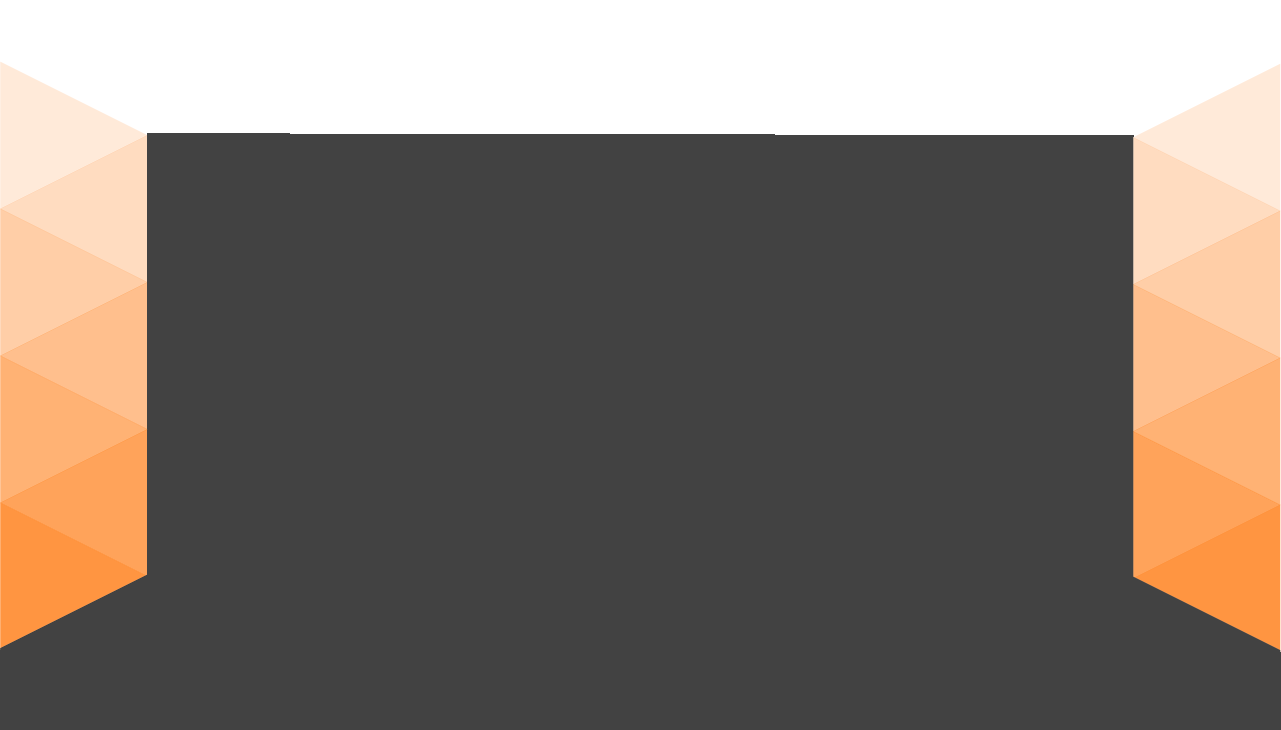
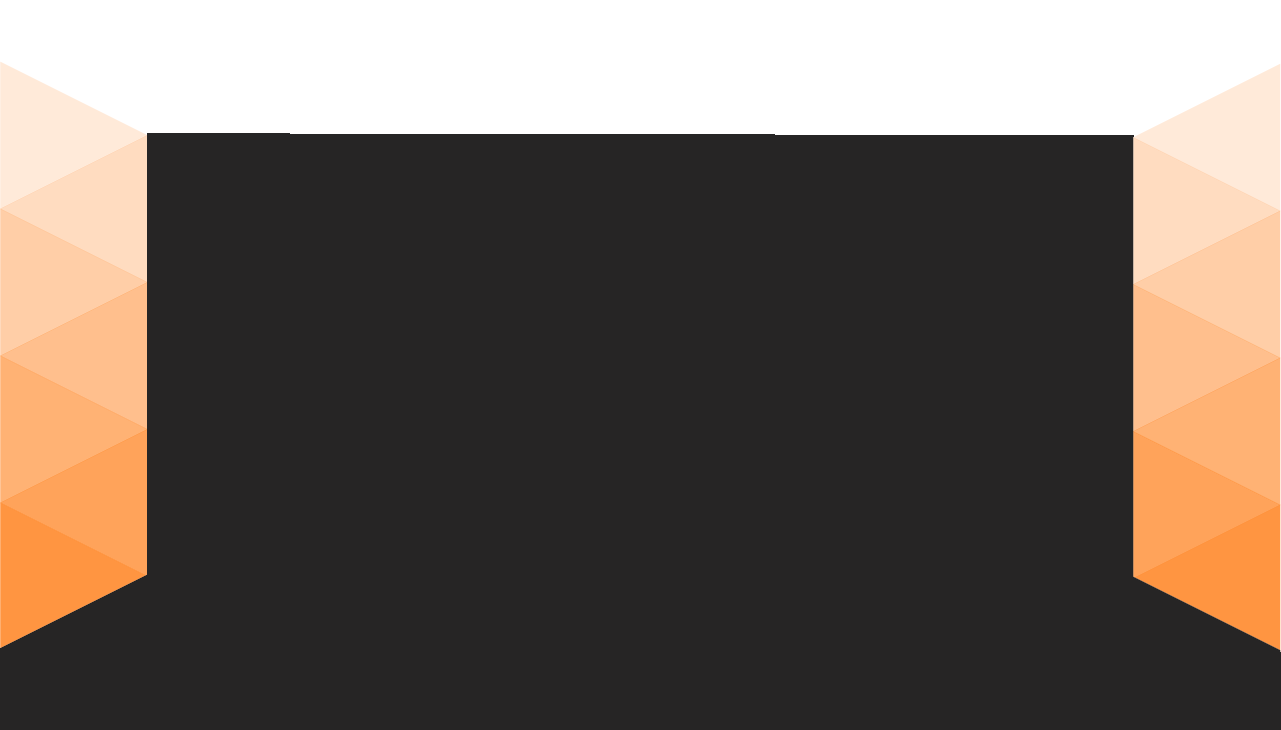
Updated webpage colors.

diff --git a/css/main.css b/css/main.css
@@ -3,7 +3,7 @@
 body 
 {
 	margin:0;padding:0;
-	background-color:#424242;
+	background-color:#262525;
     max-width: 100%;
     overflow-x: hidden;
 }
@@ -43,7 +43,7 @@ h1,h2,h3,h4
     margin: 0;
     padding: 0;
     overflow: hidden;
-    background-color: #5C5C5C;
+    background-color: #262525;
     top: 0;
     width: 100%;
 	z-index:0;
@@ -58,8 +58,8 @@ h1,h2,h3,h4
     list-style-type: none;
     margin: 0;
     padding: 0;
+    background-color: #424242;
     overflow: hidden;
-    background-color: #5C5C5C;
     width: 100%;
 	z-index:0;
 }
@@ -381,59 +381,59 @@ table, th, td {
 
 }
  
-	@media all and (orientation: portrait) 
+@media all and (orientation: portrait) 
+{
+	#About
+	{ 
+		min-height:100vh;
+		background:#262525;
+	}
+	#Services
 	{
-		#About
-		{ 
-			min-height:100vh;
-			background:#424242;
-		}
-		#Services
-		{
-			min-height:100%;
-			background: #424242;
-		}
-		h1
-		{
-			font-size: 90px;
-		}
-		#About h3
-		{
-			font-size: 40px;
-			width:80%;
-		}
+		min-height:100%;
+		background: #262525;
+	}
+	h1
+	{
+		font-size: 90px;
+	}
+	#About h3
+	{
+		font-size: 40px;
+		width:80%;
+	}
 		
-	}
+}
 	 
-	@media all and (orientation: landscape) 
-	{
-		#About
-		{ 
-			height:100%;
-			min-height:100vh;
-			background-size: 100vw 110vh;
-			background-image: url('../images/test.png');
-		}
-		#Services
-		{
-			height:100%;
-			background: #424242;
-		}
-		h1
-		{
-			font-size: 48px;
-		}
-		#About h3
-		{
-			font-size: 20px;
-			width:80%;
-		}
-		#MobileSpacer
-		{
-			display:none;
-		}
-
+@media all and (orientation: landscape) 
+{
+	#About
+	{ 
+		height:100%;
+		min-height:100vh;
+		background-size: 100vw 110vh;
+		background-image: url('../images/test.png');
 	}
+	#Services
+	{
+		height:100%;
+		background: #262525;
+	}
+	h1
+	{
+		font-size: 48px;
+	}
+	#About h3
+	{
+		font-size: 20px;
+		width:50%;
+	}
+	#MobileSpacer
+	{
+		display:none;
+	}
+
+}
 
 #MobileForeground img
 {
@@ -444,10 +444,6 @@ table, th, td {
 {
 	width:100vw;
 	height:auto;
-}
-#About h3
-{
-	width:70%;
 }
 .AboutLink{}
 

diff --git a/index.html b/index.html
@@ -227,7 +227,7 @@
 				</center>
 			</section>
 			
-			<section style="background-color: #424242;height:32px"><br></section>
+			<section style="background-color: #262525;height:32px"><br></section>
 
 		</section>	
 
